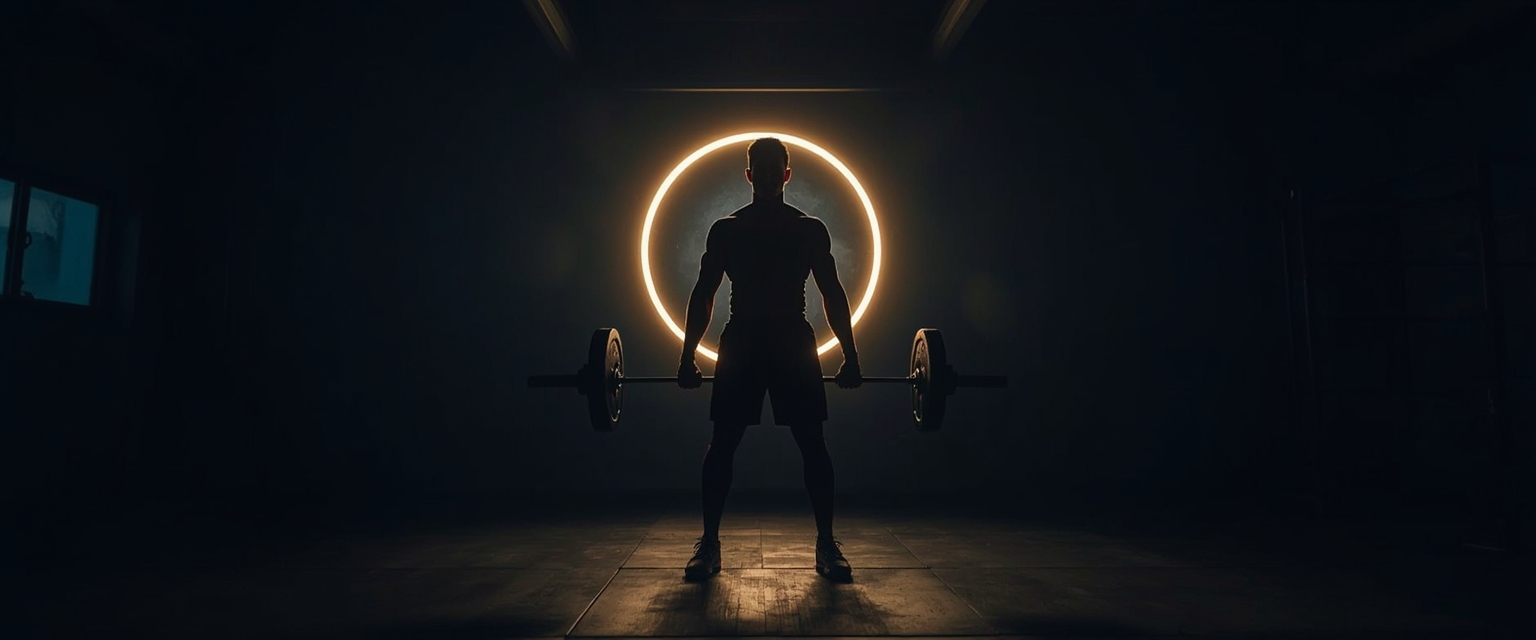
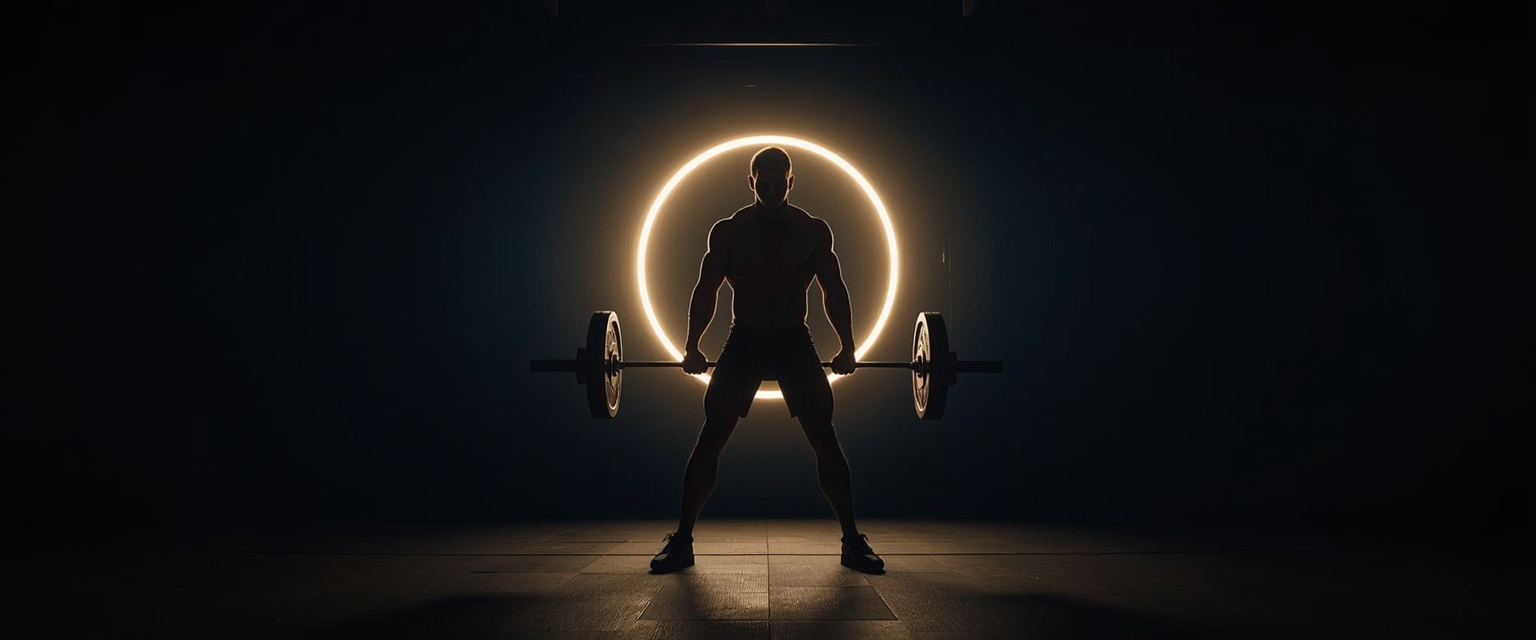
feat(images): regenerate trainer images with user likeness seed

diff --git a/app/page.tsx b/app/page.tsx
@@ -11,12 +11,12 @@ const PILLARS = [
     desc: 'Weekly training plans built around your goals, schedule, and equipment. No templates.',
   },
   {
-    image: '/images/feature-tracking.jpg',
+    image: '/images/feature-tracking.jpg?v=0.1.5',
     title: 'Session Tracking',
     desc: 'Log every session, track progress, and see exactly how far you\'ve come.',
   },
   {
-    image: '/images/feature-coaching.jpg',
+    image: '/images/feature-coaching.jpg?v=0.1.5',
     title: 'Direct Access',
     desc: 'Scheduled calls, form reviews, and direct messaging. Real coaching, not bots.',
   },

diff --git a/app/globals.css b/app/globals.css
@@ -37,7 +37,7 @@ body {
 .sgf-cta-bg {
   background-image:
     linear-gradient(180deg, rgba(13, 27, 42, 0.86) 0%, rgba(13, 27, 42, 0.82) 100%),
-    url('/images/cta-bg.jpg');
+    url('/images/cta-bg.jpg?v=0.1.5');
   background-size: cover;
   background-position: center;
 }
